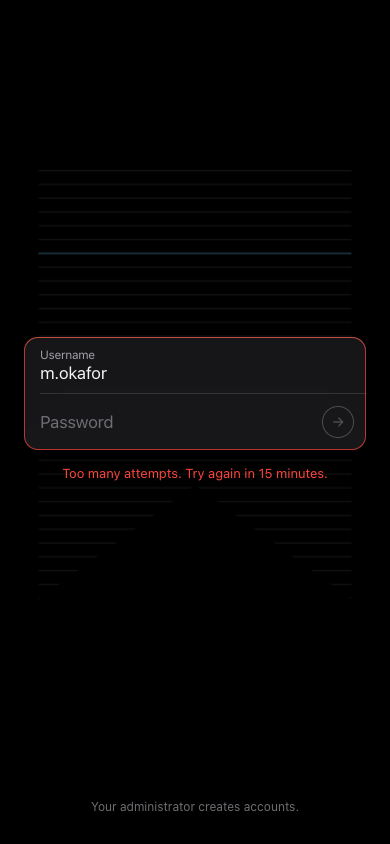
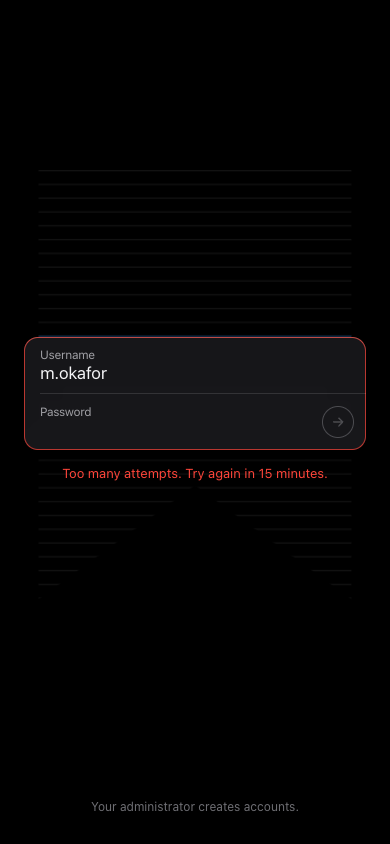
Read the clock after taking the username's lock; retake screenshots with focus
A request that queued behind the one that locked a username could read an
earlier second and miss the lock row.

Changed region(s): [[0.0923, 0.4621, 0.2769, 0.5237]]

diff --git a/console/views.py b/console/views.py
@@ -97,9 +97,12 @@ def _try_sign_in(request) -> str:
     """Signs the person in and returns "", or returns the one line to show. A locked
     username (console/lockout.py) is refused before its password is checked."""
     key = lockout.username_key(request.POST.get("username", ""))
+    if key:
+        # Read the time only once this username is ours, so a request that waited here
+        # can't read a time earlier than the failure that locked it.
+        lockout.hold(key)
     now = clock.now()
     if key:
-        lockout.hold(key)
         if minutes := lockout.minutes_locked(key, now):
             return lockout.message(minutes)
     form = AuthenticationForm(request, data=request.POST)
